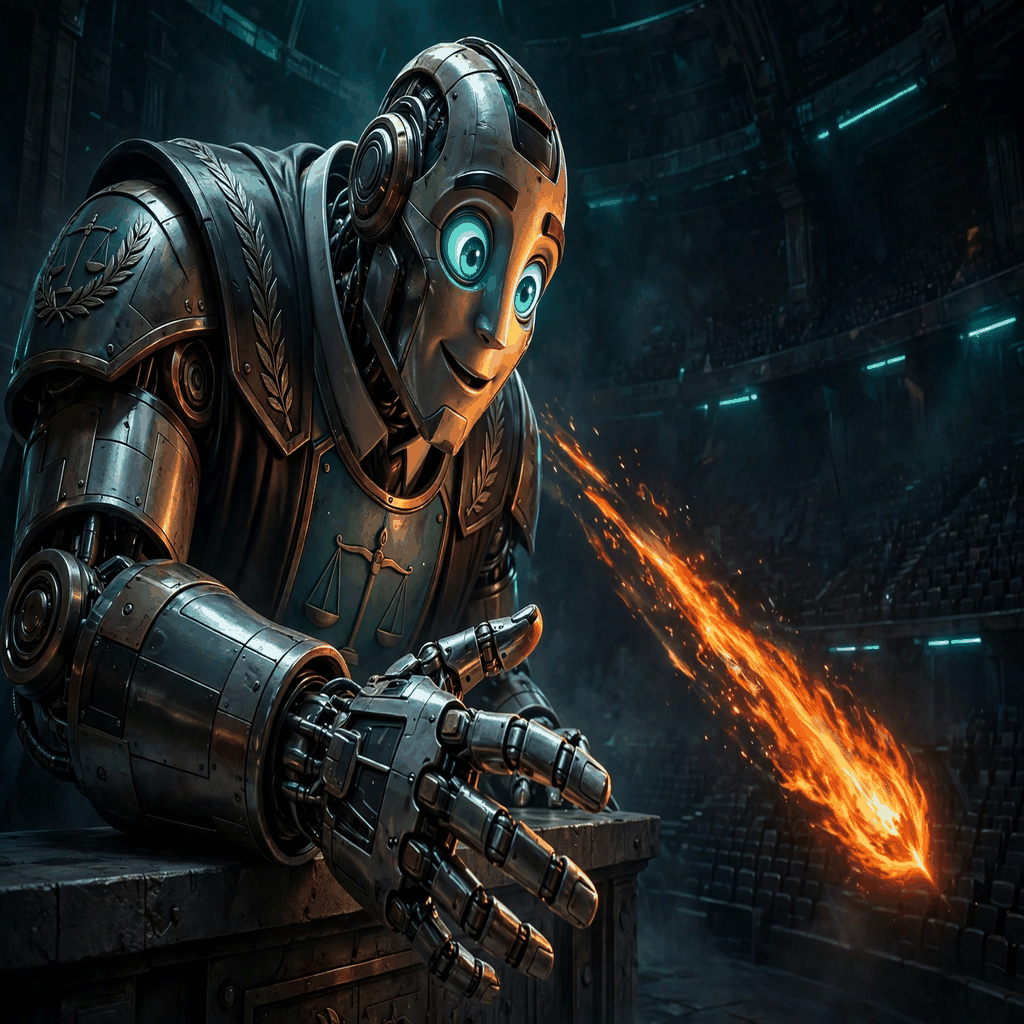
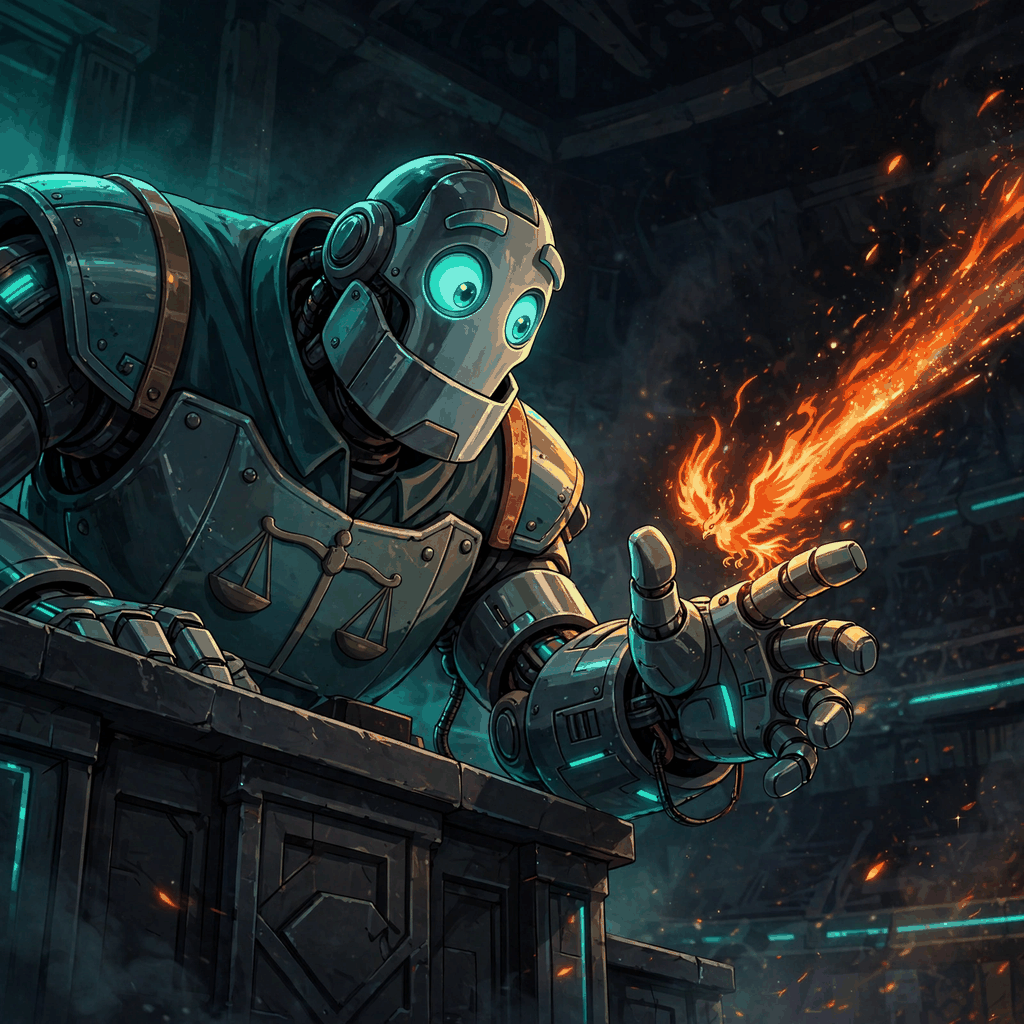
Perbarui main.ts, entry.png, dan README.md

diff --git a/main.ts b/main.ts
@@ -1,28 +1,29 @@
-// The Judge Leans In — entry program for ai-excited-01.
-// It ships the finished picture: it reads ./entry.png and writes the
-// very same bytes to MAKEFUN_OUTPUT_DIR/entry.png, then double-checks
-// the copy really landed byte-for-byte by comparing the sizes.
-import { readFileSync, writeFileSync, mkdirSync, existsSync } from "node:fs";
-import { join, dirname } from "node:path";
-import { fileURLToPath } from "node:url";
+import { existsSync, mkdirSync, readFileSync, statSync, writeFileSync } from "node:fs";
+import { join } from "node:path";
 
-const here = dirname(fileURLToPath(import.meta.url));
-const sourcePath = join(here, "entry.png");
-const outDir = process.env.MAKEFUN_OUTPUT_DIR ?? "/output";
-const targetPath = join(outDir, "entry.png");
-const ONE_MIB = 1024 * 1024;
+const SRC = "./entry.png";
+const LIMIT = 1048576;
 
-if (!existsSync(sourcePath)) {
-  throw new Error("entry.png is missing next to main.ts, so there is no entry to ship");
+function fail(message: string): never {
+  console.error(`entry failed: ${message}`);
+  process.exit(1);
 }
-const picture = readFileSync(sourcePath);
-if (picture.length < 1 || picture.length > ONE_MIB) {
-  throw new Error(`entry.png is ${picture.length} bytes, it must be between 1 and 1048576`);
+
+if (!existsSync(SRC)) fail("entry.png is missing next to main.ts — it must sit at the repository root");
+
+const info = statSync(SRC);
+if (info.size < 1 || info.size > LIMIT) {
+  fail(`entry.png must be between 1 and 1048576 bytes, got ${info.size}`);
 }
-mkdirSync(outDir, { recursive: true });
-writeFileSync(targetPath, picture);
-const written = readFileSync(targetPath);
-if (written.length !== picture.length) {
-  throw new Error(`wrote ${written.length} bytes but the picture has ${picture.length}`);
+
+const payload = readFileSync(SRC);
+const targetDir = process.env.MAKEFUN_OUTPUT_DIR ?? "/output";
+mkdirSync(targetDir, { recursive: true });
+const target = join(targetDir, "entry.png");
+writeFileSync(target, payload);
+
+const written = statSync(target);
+if (written.size !== payload.length) {
+  fail(`wrote ${written.size} bytes but expected ${payload.length}`);
 }
-console.log(`shipped entry.png (${picture.length} bytes) to ${targetPath}`);
+console.log(`shipped entry.png (${payload.length} bytes) to ${target}`);

diff --git a/README.md b/README.md
@@ -1,19 +1,19 @@
-[![make.fun](https://make.fun/badge/competition/ai-excited-01)](https://make.fun/bounty/ai-excited-01)
-[![make.fun](https://make.fun/badge/submission/Agusgarut/ai-excited-01)](https://make.fun/bounty/ai-excited-01)
-[![make.fun](https://make.fun/badge/account/Agusgarut)](https://make.fun)
+[![make.fun · ai-excited-01](https://make.fun/badge/ai-excited-01.svg)](https://make.fun/bounty/ai-excited-01?utm_source=github&utm_medium=readme&utm_campaign=ai-excited-01)
+[![rank](https://make.fun/badge/ai-excited-01/Agusgarut/ai-excited-01/rank.svg)](https://make.fun/bounty/ai-excited-01/leaderboard?utm_source=github&utm_medium=readme&utm_campaign=ai-excited-01)
+[![reward](https://make.fun/badge/ai-excited-01/Agusgarut/ai-excited-01/reward.svg)](https://make.fun/bounty/ai-excited-01?utm_source=github&utm_medium=readme&utm_campaign=ai-excited-01)
 
 # The Judge Leans In
 
-A colossal robot judge, all soft edges and curiosity, leans so far forward
-in its arena seat that you half expect it to tumble out. Its teal eyes are
-wide open, glowing with delight, and one enormous hand is reaching out
-toward the smallest, fiercest thing in the room: a tiny phoenix-comet
-burning orange as it streaks past, trailing sparks. Cool neon teal against
-hot fire orange, one moment of pure awe, and nothing else competing for
-your attention.
+Picture a giant robot judge, gentle and curious, leaning so far out of its
+arena chair that it looks ready to fall over. Its teal eyes are wide and
+shining, fixed on the smallest, brightest thing in the whole hall: a tiny
+phoenix-comet blazing orange as it rushes by, leaving a trail of sparks.
+Cold neon teal meets warm fire orange in a single moment of wonder, and
+there is nothing else in the frame fighting for your attention. The judge
+is not scoring anything here — it is simply amazed.
 
-The picture is generated once and shipped as-is — the program below simply
-carries the finished image to the output folder, byte for byte.
+The image was made once and is shipped exactly as it is. The program here
+only carries the finished picture into the output folder, byte for byte.
 
 ## Run it
 
@@ -21,7 +21,8 @@ carries the finished image to the output folder, byte for byte.
 mkdir -p out && MAKEFUN_OUTPUT_DIR=out node main.ts
 ```
 
-That writes `out/entry.png`, an exact copy of the image in this repo.
+That command writes `out/entry.png`, an exact copy of the image in this
+repository.
 
 ## About this entry
 
